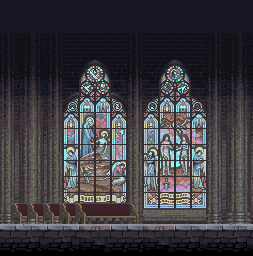
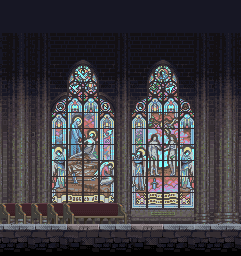
Bloquage si x maximal atteint

diff --git a/main.py b/main.py
@@ -16,7 +16,7 @@ pal = [0x1b2954,0x8c938c,0x5a3936,0x28222c,0x4c505b,0x73522d,
        0x83604f,0x3c4c54,0xc49892,0x3c445c,0x6c6e6c,0x7c706a,
        0x6c6468,0xf3b340,0xe68d02,0xffb228,0xAF082D,0x83213C,
        0xF35C5C,0x2D2E4D,0x316595,0xffffff,0x3fb34e,0x000000,
-       0x171724]
+       0x171724,0x3d232a]
 
 pyxel.init(500, 250, "Ethereal Odyssey", display_scale=2)
 pyxel.load("ressources.pyxres")
@@ -240,7 +240,9 @@ def draw():
       pyxel.cls(0)
       pyxel.camera(scroll_x, 0)
       for i in range(10):
-        pyxel.blt(253*i,0,1,0,0,256,256)
+        pyxel.blt(127*i,0,1,0,0,127,256)
+      for j in range(5):
+        pyxel.blt(1270+114*j,0,1,127,0,114,256)
       if (animation == "run" and is_jumping == False):
         coef = pyxel.frame_count // 5 % 5
         pyxel.blt(perso_x, y, 0, run_sprite[coef][0], run_sprite[coef][1],

diff --git a/deplacement.py b/deplacement.py
@@ -3,11 +3,11 @@ import pyxel
 def deplacement_x(perso_x, speed, direction):
   """Prend en compte le x du personnage (integer) et la vitesse (float)
   Renvoie le nouveau x (integer)"""
-  if(pyxel.btn(pyxel.KEY_RIGHT)):
+  if(pyxel.btn(pyxel.KEY_RIGHT) and perso_x+3*speed < 1500):
     perso_x+=3*speed
     animation="run"
     direction=1
-  elif(pyxel.btn(pyxel.KEY_LEFT) and perso_x+3*speed >= 0):
+  elif(pyxel.btn(pyxel.KEY_LEFT) and perso_x-3*speed >= 0):
     animation="run"
     direction=-1
     perso_x-=3*speed
